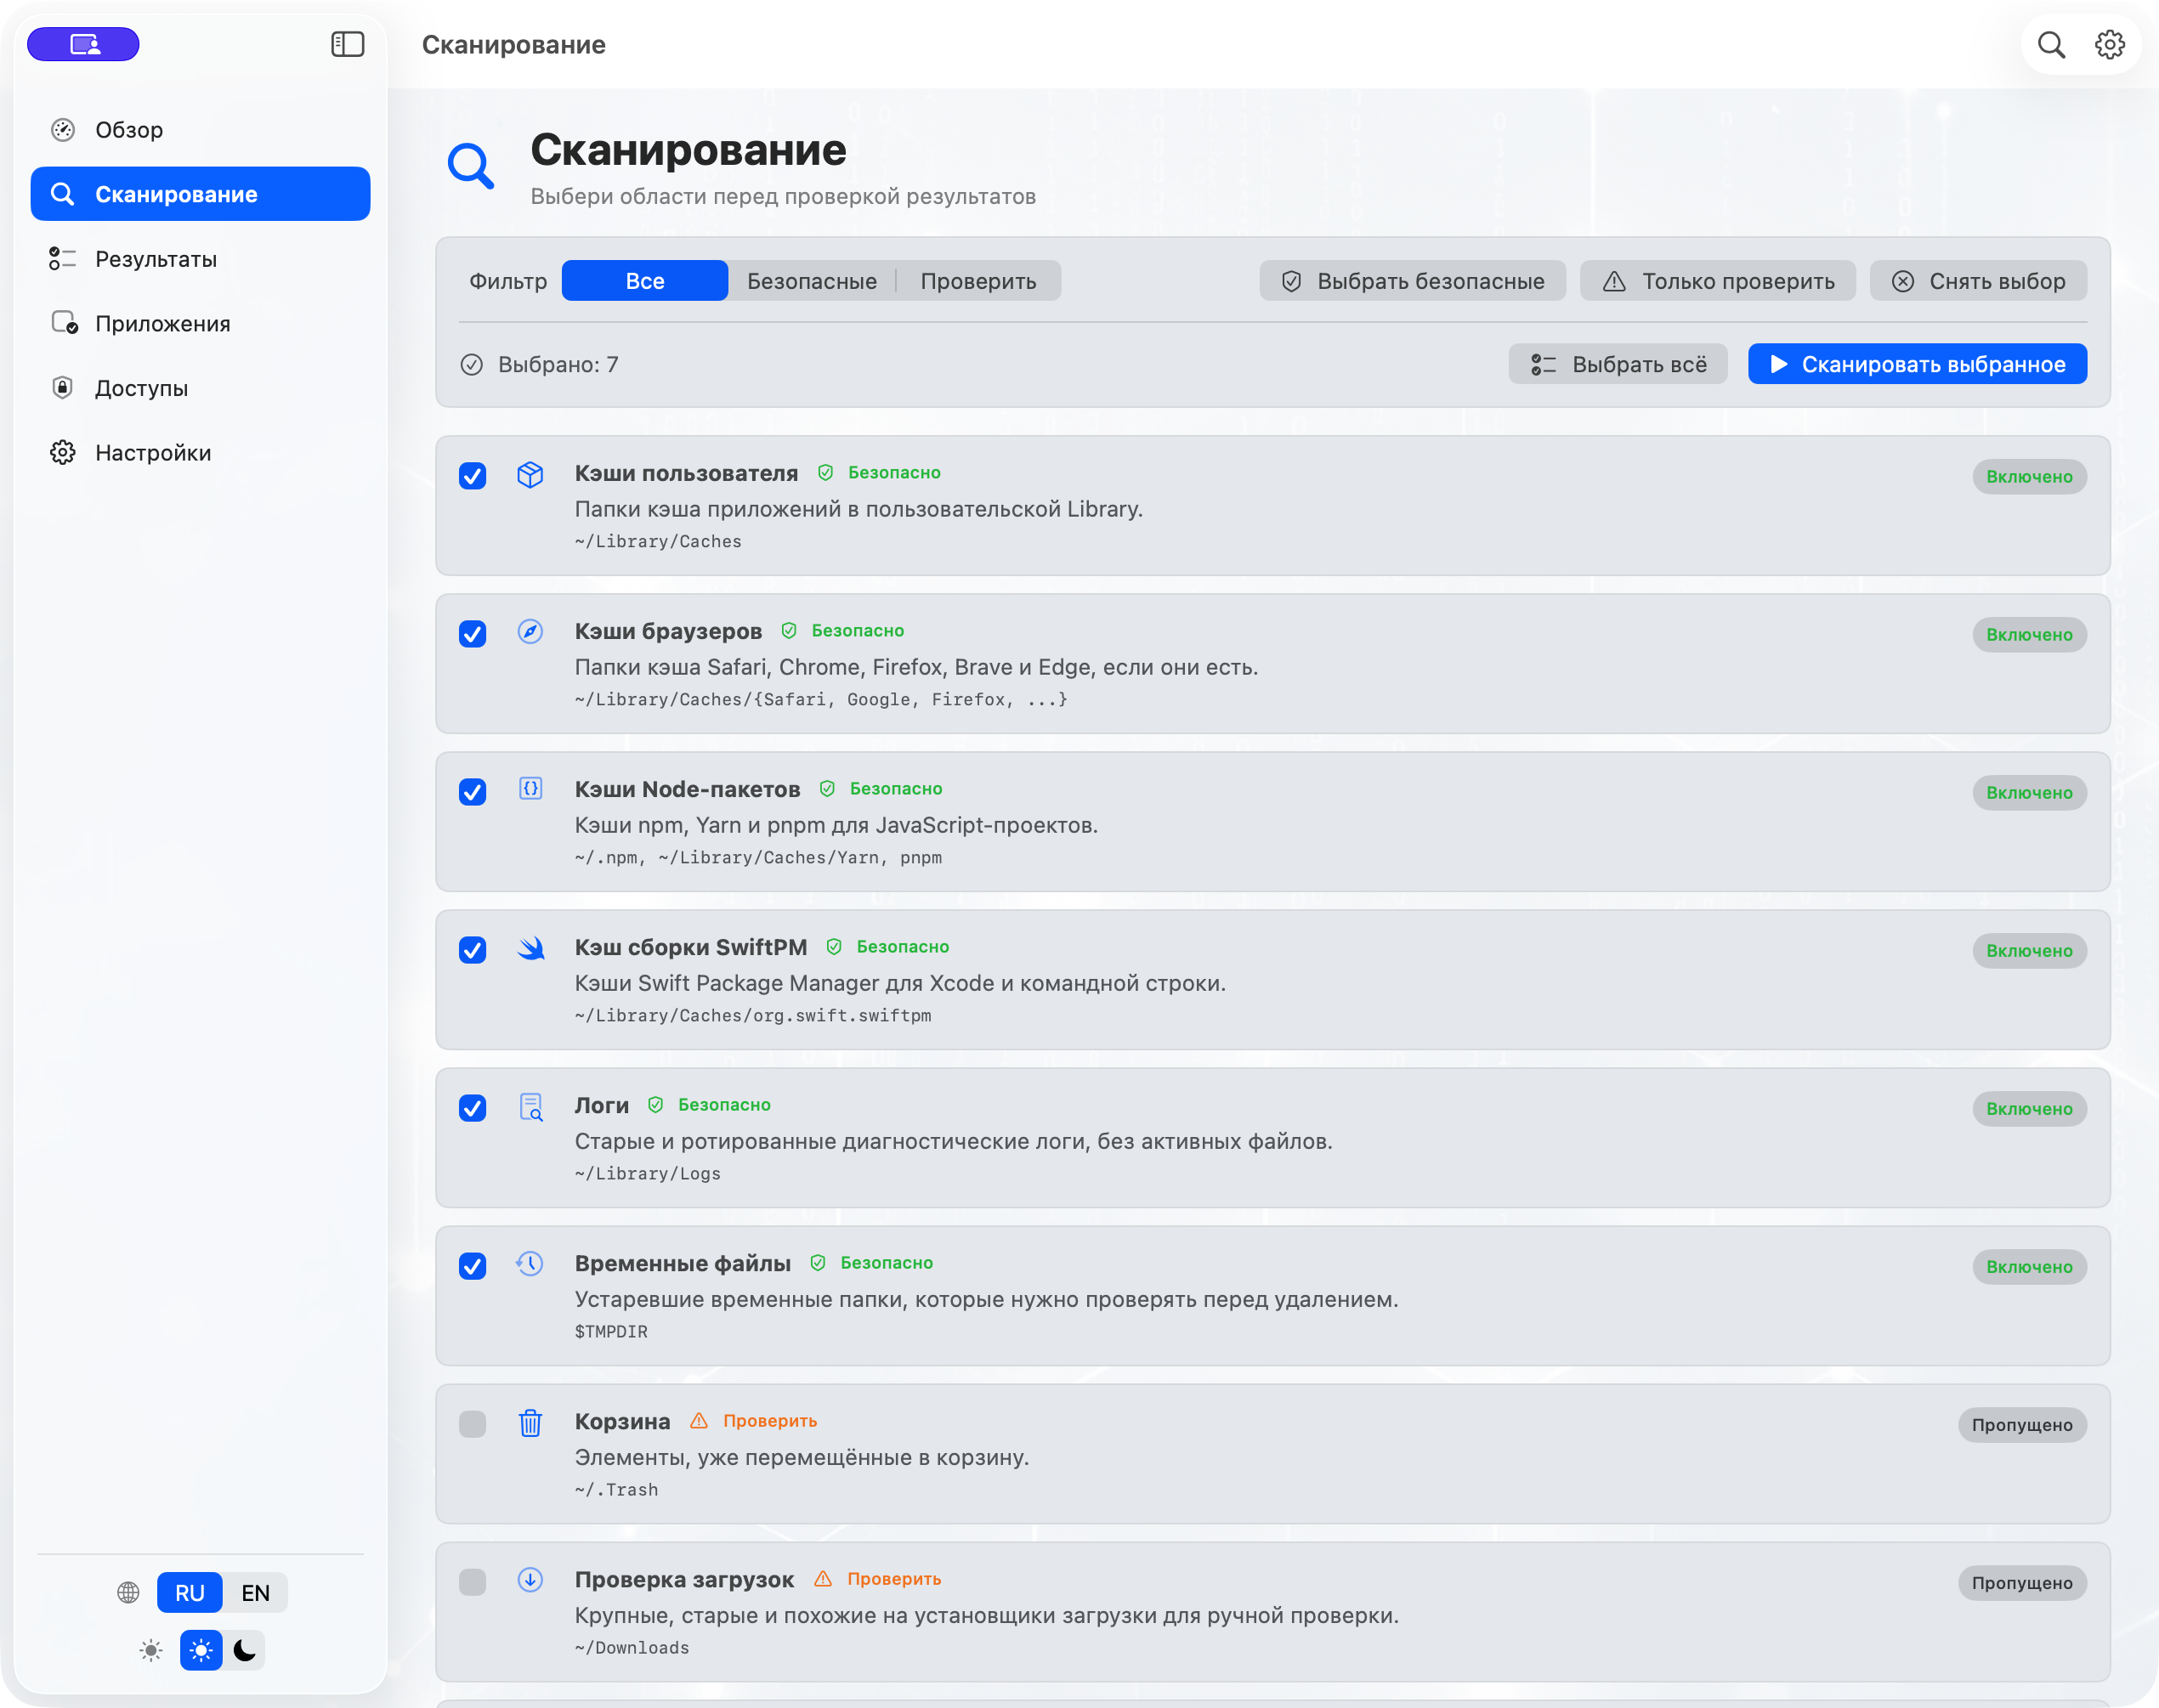
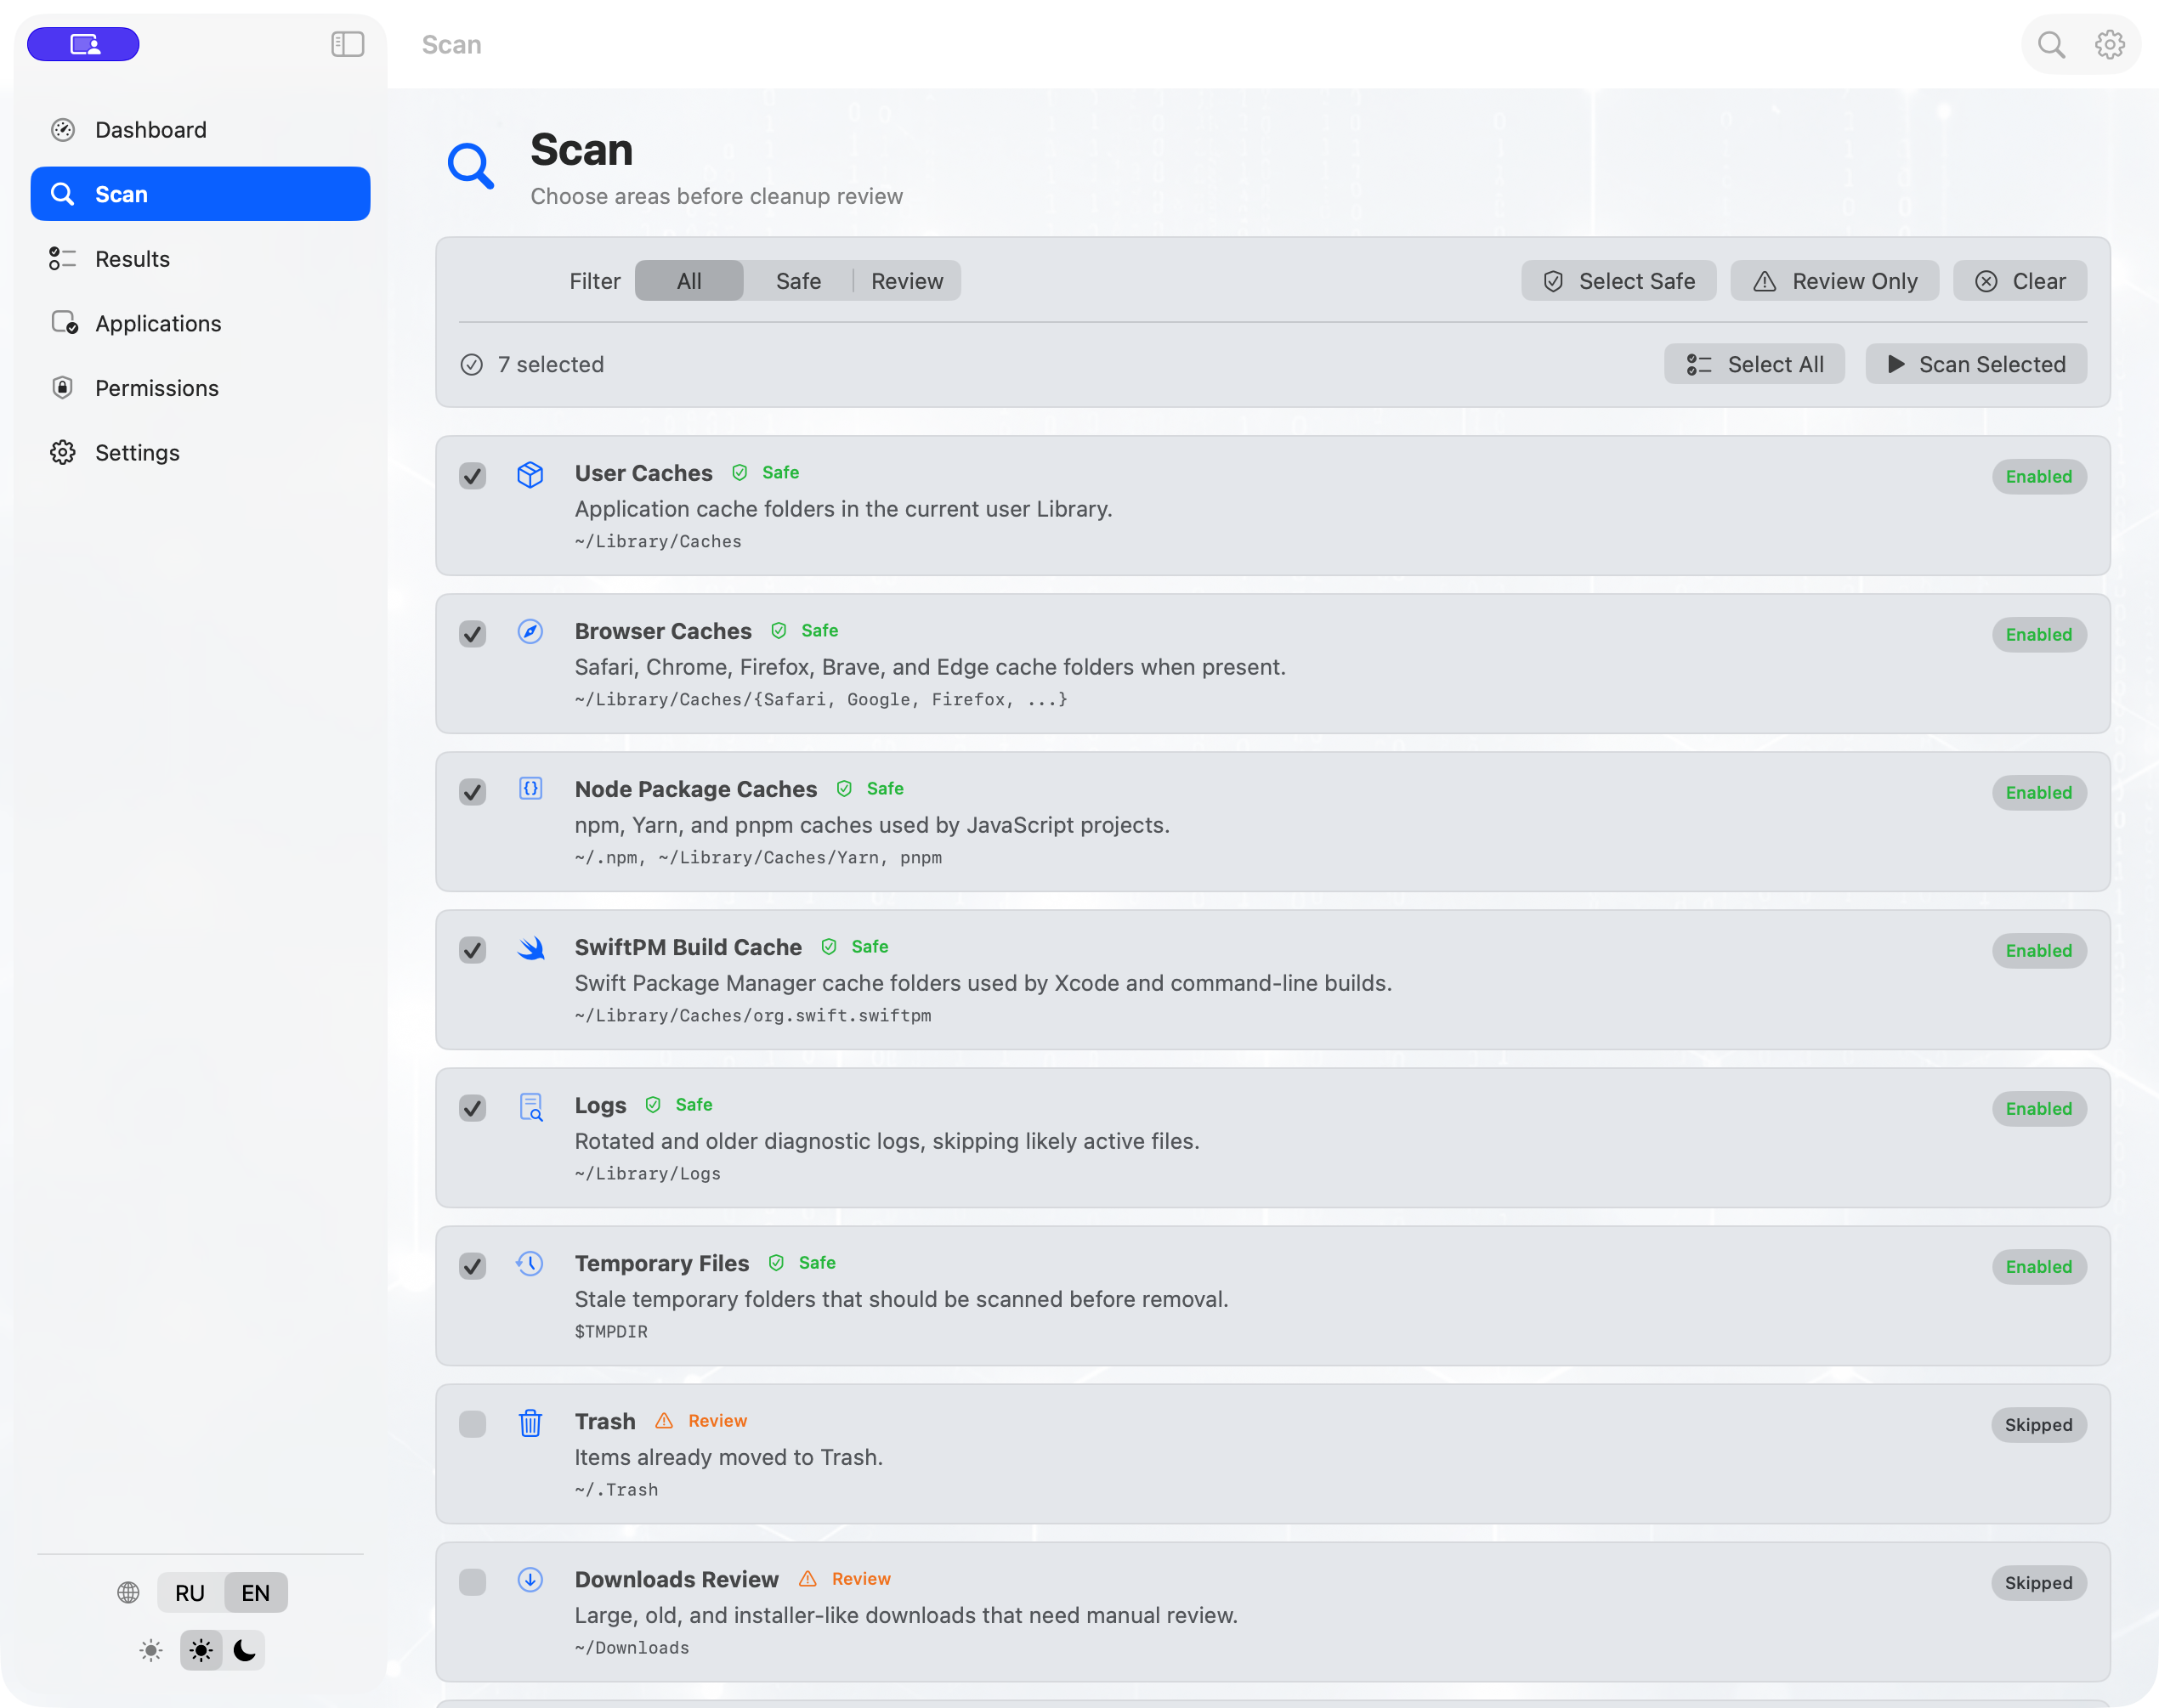
Translate GitHub presentation to English

diff --git a/README.md b/README.md
@@ -5,8 +5,8 @@
 <h1 align="center">CleanMac</h1>
 
 <p align="center">
-  Безопасная локальная очистка macOS с предварительным просмотром,<br>
-  Safe Mode и удалением приложений через Корзину.
+  Safe, local-first cleanup for macOS with review-first scanning,<br>
+  Safe Mode, and Trash-only removal.
 </p>
 
 <p align="center">
@@ -17,72 +17,72 @@
   <a href="LICENSE"><img src="https://img.shields.io/github/license/Dezoff-max/CleanMac" alt="MIT License"></a>
 </p>
 
-CleanMac — нативное SwiftUI-приложение для macOS, которое сначала сканирует выбранные области, объясняет найденные кандидаты и только после явного подтверждения перемещает разрешённые элементы в Корзину. Приложение работает локально: в коде нет сетевой отправки результатов сканирования, аналитики или облачного аккаунта.
+CleanMac is a native SwiftUI utility that scans selected macOS locations, explains every cleanup candidate, and moves only confirmed items to Trash. Everything runs locally: the code contains no scan-result uploads, analytics, or cloud accounts.
 
 > [!IMPORTANT]
-> Текущий публичный релиз не подписан Developer ID и не нотарифицирован Apple. macOS Gatekeeper может заблокировать запуск загруженной сборки. Для разработки можно собрать приложение из исходников; не отключайте системную защиту ради запуска неподписанного файла.
+> The current public build is ad-hoc signed and is not notarized by Apple. macOS Gatekeeper may block the downloaded app. You can build CleanMac from source for development; do not disable system security to run an unsigned file.
 
-## Интерфейс
+## Interface
 
 <p align="center">
-  <img src="docs/screenshots/overview.png" alt="Главный экран CleanMac" width="100%">
+  <img src="docs/screenshots/overview.png" alt="CleanMac dashboard" width="100%">
 </p>
 
-| Выбор областей сканирования | Групповое удаление приложений |
+| Scan area selection | Multi-select application removal |
 | --- | --- |
-| <img src="docs/screenshots/scan-areas.png" alt="Области сканирования CleanMac"> | <img src="docs/screenshots/applications-multiselect.png" alt="Выбор нескольких приложений в CleanMac"> |
+| <img src="docs/screenshots/scan-areas.png" alt="CleanMac scan areas"> | <img src="docs/screenshots/applications-multiselect.png" alt="Selecting multiple applications in CleanMac"> |
 
-## Возможности
+## Features
 
-- **Безопасное сканирование.** Кэши пользователя и браузеров, логи, временные файлы, Xcode Derived Data, кэши Node/SwiftPM, Загрузки, установщики и Корзина.
-- **Понятный просмотр результатов.** Категории, размер, риск, причина рекомендации, точный путь и недоступные для чтения области.
-- **Safe Mode.** Включён по умолчанию и блокирует выбор элементов, требующих ручной проверки.
-- **Очистка через Корзину.** Разрешённые пути повторно проверяются перед выполнением; постоянное удаление не используется.
-- **Восстановление.** Элементы, перемещённые в текущем сеансе, можно вернуть, если исходный путь свободен.
-- **Удаление приложений.** Поиск сторонних программ в `/Applications` и `~/Applications`, выбор нескольких приложений и необязательных точных остатков по bundle ID.
-- **Меню-бар и автоматическое сканирование.** Статус диска, последний результат, расписание безопасного сканирования и локальные уведомления, пока CleanMac запущен.
-- **Контроль разрешений.** Живой статус Full Disk Access и Finder Automation без автоматического запроса доступа.
-- **Русский и английский интерфейс.** Переключение языка и светлой/тёмной темы внутри приложения.
+- **Safe scanning.** User and browser caches, logs, temporary files, Xcode Derived Data, Node/SwiftPM caches, Downloads, installers, and Trash.
+- **Explainable review.** Categories, sizes, risk levels, recommendation reasons, exact paths, and locations that could not be read.
+- **Safe Mode.** Enabled by default and prevents selection of items that require manual review.
+- **Trash-only cleanup.** Accepted paths are validated again before execution; permanent deletion is not used.
+- **Session restore.** Items moved during the current session can be restored when their original path is available.
+- **Application removal.** Finds third-party apps in `/Applications` and `~/Applications`, supports multi-selection, and offers optional exact bundle-ID leftovers.
+- **Menu bar and scheduled scans.** Disk status, the latest scan summary, safe scan scheduling, and local notifications while CleanMac is running.
+- **Permission visibility.** Live Full Disk Access and Finder Automation status without automatic permission prompts.
+- **English and Russian UI.** Switch language and light/dark appearance directly inside the app.
 
-## Модель безопасности
+## Safety Model
 
-1. Сканирование выполняется только для чтения.
-2. Каждый кандидат относится к известной категории и допустимому корневому пути.
-3. Очистка требует явного выбора и отдельного подтверждения.
-4. Перед выполнением пути проверяются повторно.
-5. Файлы перемещаются в Корзину, а не удаляются навсегда.
-6. При удалении приложения сначала перемещается сам `.app`; связанные остатки не затрагиваются, если этот шаг завершился ошибкой.
-7. CleanMac не повышает привилегии и не устанавливает системный helper.
+1. Scanning is read-only.
+2. Every candidate belongs to a known category and an allowlisted root path.
+3. Cleanup requires explicit selection and a separate confirmation.
+4. Paths are validated again immediately before execution.
+5. Accepted files are moved to Trash instead of being permanently deleted.
+6. During application removal, the `.app` bundle is moved first. Its leftovers remain untouched if that step fails.
+7. CleanMac does not escalate privileges or install a system helper.
 
-## Установка
+## Installation
 
-Готовые архивы находятся на странице [Releases](https://github.com/Dezoff-max/CleanMac/releases/latest). Вместе с ZIP публикуется файл `.sha256` для проверки загрузки:
+Download the latest archive from [GitHub Releases](https://github.com/Dezoff-max/CleanMac/releases/latest). Each ZIP is published with a `.sha256` file:
 
 ```bash
 shasum -a 256 CleanMac-*.zip
 ```
 
-Сравните полученный хеш с первым значением в приложенном файле `.sha256`, затем распакуйте архив и переместите `CleanMac.app` в `/Applications`.
+Compare the resulting hash with the first value in the attached `.sha256` file. Then extract the archive and move `CleanMac.app` to `/Applications`.
 
-Актуальные ограничения готовой сборки:
+Current prebuilt release limitations:
 
-- macOS 14 или новее;
-- архитектура Apple Silicon (`arm64`);
-- релиз пока подписан только ad-hoc и не нотарифицирован Apple.
+- macOS 14 or later;
+- Apple Silicon (`arm64`);
+- ad-hoc signed and not notarized by Apple.
 
-## Разрешения macOS
+## macOS Permissions
 
-CleanMac запрашивает доступ только по действию пользователя:
+CleanMac requests access only after a user action:
 
-- **Файлы и папки** — для выбранных пользовательских областей;
-- **Полный доступ к диску** — опционально, для более глубокого чтения защищённых метаданных;
-- **Автоматизация Finder** — опционально, только чтобы показать выбранный элемент в Finder.
+- **Files and Folders** — for selected user locations;
+- **Full Disk Access** — optional, for deeper checks of protected metadata;
+- **Finder Automation** — optional, only for revealing a selected item in Finder.
 
-Сканирование и очистка не требуют Finder Automation. Разрешения можно проверить на экране «Доступы» и изменить в системных настройках macOS.
+Scanning and cleanup do not require Finder Automation. Permission status is available on the Permissions screen and can be changed in macOS System Settings.
 
-## Сборка из исходников
+## Build from Source
 
-Требуются macOS 14+ и Xcode 26+.
+Requires macOS 14+ and Xcode 26+.
 
 ```bash
 git clone https://github.com/Dezoff-max/CleanMac.git
@@ -90,39 +90,39 @@ cd CleanMac
 ./script/build_and_run.sh --verify
 ```
 
-Тесты ядра:
+Run the core test suite:
 
 ```bash
 swift test --package-path CleanMacCore
 ```
 
-Локальный Release ZIP и SHA-256:
+Create a local Release ZIP and SHA-256 file:
 
 ```bash
 ./script/package_release.sh
 ```
 
-Подписание Developer ID и нотарификация описаны в [docs/signing-notarization.md](docs/signing-notarization.md).
+Developer ID signing and notarization are documented in [docs/signing-notarization.md](docs/signing-notarization.md).
 
-## Структура проекта
+## Project Structure
 
 ```text
-CleanMac/             SwiftUI-приложение для macOS
-CleanMacCore/         Тестируемое ядро сканирования и очистки
-script/               Сборка, запуск и упаковка релиза
-docs/                 Документация и скриншоты
-.github/workflows/    CI и публикация GitHub Releases
+CleanMac/             SwiftUI macOS application
+CleanMacCore/         Testable scanning and cleanup core
+script/               Build, launch, and release packaging
+docs/                 Documentation and screenshots
+.github/workflows/    CI and GitHub Release automation
 ```
 
-## Участие в разработке
+## Contributing
 
-1. Создайте отдельную ветку от `main`.
-2. Сохраняйте модель безопасности: scan → review → confirm → Trash.
-3. Добавляйте тесты для изменений путей, сканирования и удаления.
-4. Перед Pull Request выполните `swift test --package-path CleanMacCore` и `./script/build_and_run.sh --verify`.
+1. Create a focused branch from `main`.
+2. Preserve the safety flow: scan → review → confirm → Trash.
+3. Add tests for changes to scanning, path validation, or removal behavior.
+4. Before opening a pull request, run `swift test --package-path CleanMacCore` and `./script/build_and_run.sh --verify`.
 
-Сообщения об ошибках и предложения можно создавать через [GitHub Issues](https://github.com/Dezoff-max/CleanMac/issues).
+Bug reports and feature ideas are welcome in [GitHub Issues](https://github.com/Dezoff-max/CleanMac/issues).
 
-## Лицензия
+## License
 
-Проект распространяется по лицензии [MIT](LICENSE).
+CleanMac is available under the [MIT License](LICENSE).